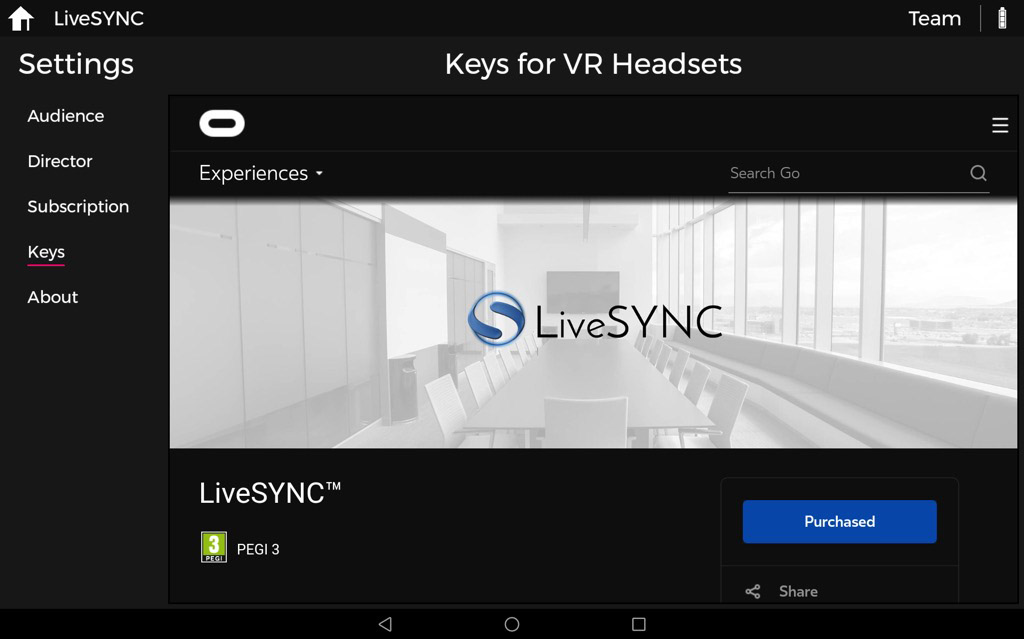
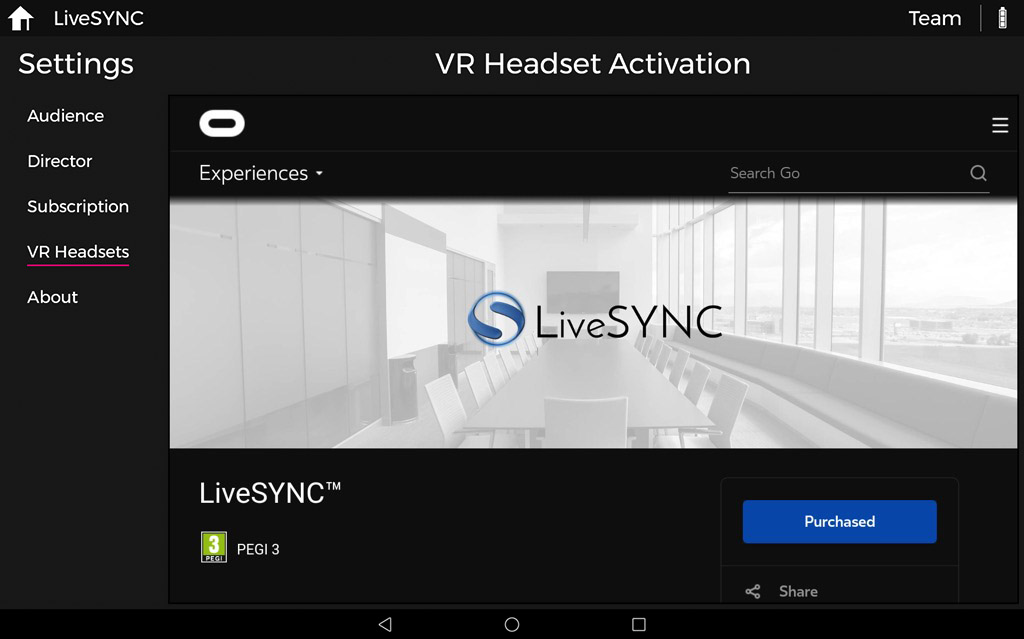
Updated some screenshots and fixed all compile errors

diff --git a/docs/user_guide/hotspots.md b/docs/user_guide/hotspots.md
@@ -1,6 +1,6 @@
 ### Adding Tags
 
-[Adding Tags](..//user_guide/presenting.md#adding-tags)
+[Adding Tags](../user_guide/presenting.md#adding-tags)
 
 ### Marking with tags
 
@@ -29,7 +29,7 @@ In LiveSYNC it is possible to add own tags. Make sure the icons are in **.png** 
  
 On the *Editor* tab once you add a hotspot you're able to see properties window on right side. From properties window, you can choose the type of hotspot by tapping on the drop-down arrow under *Type*. Hotspot type can be **Note (default)**, **Action**, **Live Hotspot** or **Calibration Point**. It is also possible to adjust and customize hotspot size and visibility for the same window. 
 
-![Hotspot properties](../img/hotspotProperties.jpg)
+![Hotspot properties](img/hotspotProperties.jpg)
 
 ## Hotspot types
 
@@ -37,32 +37,32 @@ On the *Editor* tab once you add a hotspot you're able to see properties window 
 
 Note is default hotspot action type. With Note type, you have an option to add a title and long description text to your hotspot icons and add multiple attachments by pressing the + Add button. 
 
-![HotspotType Note](../img/hotspotTypeNote.jpg)
+![HotspotType Note](img/hotspotTypeNote.jpg)
 
 !!! note
-    Make sure you tap **Save** every time you make a change. After saving the project choose preview ![Preview Icon](../img/previewIcon.png).  
+    Make sure you tap **Save** every time you make a change. After saving the project choose preview ![Preview Icon](img/previewIcon.png).  
 
 ### Action
 
 With *Action* it is possible to open/redirect to other contents by tapping on the hotspot. Select hotspot -> choose Action from Type -> Add action -> choose the content you want to show when that hotspot is tapped from auto popup project window and you're all set.  
 
-![HotspotType Action](../img/hotspotTypeAction.jpg)
+![HotspotType Action](img/hotspotTypeAction.jpg)
 
-![HotspotType Action](../img/hotspotTypeAction2.jpg)
+![HotspotType Action](img/hotspotTypeAction2.jpg)
 
-**Save** the changes, tap preview ![Preview Icon](../img/previewIcon.png) to test the action you defined.  
+**Save** the changes, tap preview ![Preview Icon](img/previewIcon.png) to test the action you defined.  
 
 ### Live Hotspot
 
 *Live Hotspot* is a feature to fetch hotspot icons from web server without copying them to the device. Note that hotspots need to be provided in JSON format.  
 
-![HotspotType Live Hotspot](../img/LiveHotspot.jpg)
+![HotspotType Live Hotspot](img/LiveHotspot.jpg)
 
 ### Calibration Point
 
 *Calibration point* is used for camera normalization. Normalization converts a camera path's coordinates to another coordinate space with given reference points. Click [here](..//user_guide/workflows.md#camera-path-normalization) to read more about camera path normalization. 
 
-![HotspotType Calibration](../img/hotspotTypeCalibration.jpg)
+![HotspotType Calibration](img/hotspotTypeCalibration.jpg)
 
 ## Hotspot properties
 
@@ -74,7 +74,7 @@ With *Action* it is possible to open/redirect to other contents by tapping on th
 
 **Pauses playback:** (for video file) check the box if you want the video to pause when the hotspot is tapped and a predefined action is executed (for example opening a new content).  
 
-![HotspotType Property](../img/hotspotProperty.jpg)
+![HotspotType Property](img/hotspotProperty.jpg)
 
 ## Tags resolution
  
@@ -86,4 +86,4 @@ With *Action* it is possible to open/redirect to other contents by tapping on th
                                                                                                                           
  [comment]: <> (add link to downloadable hotspots)
 
-  ![Enterprise feature](../img/enterpriseFooter.png)  
+![Enterprise feature](../img/enterprise_footer.png)

diff --git a/docs/user_guide/starter_kit.md b/docs/user_guide/starter_kit.md
@@ -1,6 +1,6 @@
 # 360° VIDEO STARTER KIT
 
-![360° VIDEO Starter Kit](../img/kit_items.png)
+![360° VIDEO Starter Kit](img/kit_items.png)
 
 ** Starter Kit includes:  **
 
@@ -53,11 +53,11 @@ The accompanying Ricoh Theta mobile app allows **remote operation** and hence hi
 
 (1) Turn the camera on. 
 
-![Recho power button](../img/turnon.png)
+![Recho power button](img/turnon.png)
 
 (2) Press the wireless button to turn the WiFi on.
 
-![Recho wireless indictor](../img/wireless.png)
+![Recho wireless indictor](img/wireless.png)
 
 !!! note
     The WiFi indictor flashes
@@ -66,13 +66,13 @@ The accompanying Ricoh Theta mobile app allows **remote operation** and hence hi
 
 (4) Select the SSID displaying the camera’s serial number, and enter the password.
 
-![Recho serial](../img/serial.png)
+![Recho serial](img/serial.png)
 
 *The serial number is printed at the bottom of the camera. The SSID is “THETA + [Serial number indicated by (B)] + .OSC” (for example, “THETAYL00001017.OSC”). The password is the number indicated by (A) (in this case “00001017”)*
 
 (5) Open the Ricoh Theta app on the tablet to capture & view 360° photos and videos or to access advanced camera functions.
 
-![Recho serial](../img/thetaApp.png)
+![Recho serial](img/thetaApp.png)
 
 
 ### Camera WiFi indicator
@@ -93,7 +93,7 @@ The accompanying Ricoh Theta mobile app allows **remote operation** and hence hi
 
 3. Keep the camera steady and press the big round capture button in the front.
 
-![Capture Button](../img/captureButton.jpg)
+![Capture Button](img/captureButton.jpg)
 
 ### Remote operation mode (with the tablet)
 
@@ -112,8 +112,8 @@ Both the tablet and the camera contain **internal memory only** (tablet: 128GB, 
 1. Turn the camera on and connect the tablet to the camera via WiFi. Start the Ricoh Theta app. The shooting screen is displayed.
 2. Tap [x] in the upper left-hand corner of the screen. A timeline of already transferred images is displayed and [Device images] is selected in the bottom bar.
 3. Select [Cam images] from the bottom bar. A list of images saved in the internal memory of the camera is displayed.
-4. Tap ![Image](../img/i026.png) from top right corner. The selection screen appears.
-5. Select the images to be transferred by tapping them. Multiple images can be selected (a check mark appears for selected images). Tap ![Select all](../img/i005.png)  (Select All button) to select all images. Tap ![Cancel button](../img/i006.png)  (Cancel button) to cancel all selections.
+4. Tap ![Image](img/i026.png) from top right corner. The selection screen appears.
+5. Select the images to be transferred by tapping them. Multiple images can be selected (a check mark appears for selected images). Tap ![Select all](img/i005.png)  (Select All button) to select all images. Tap ![Cancel button](img/i006.png)  (Cancel button) to cancel all selections.
 6. Tap [Transfer]. The transfer will start and progress is displayed on the screen. From the popup notification choose **"Transfer with slant top/bottom correction"** .To cancel the transfer, tap [x] and then tap [Cancel transfer]. Tap [Device images] to view transferred content.
 
 !!! caution
@@ -134,7 +134,7 @@ Both the tablet and the camera contain **internal memory only** (tablet: 128GB, 
 
 (1) Start the Photos app from the application menu.
 
-![Photos App](../img/photosApp.png)
+![Photos App](img/photosApp.png)
 
 (2) Tap [Camera Roll], and then tap [Select] from top right corner.
 

diff --git a/docs/user_guide/editor.md b/docs/user_guide/editor.md
@@ -9,20 +9,20 @@ The *Editor* is a tab in the controller device, which provides persistence for t
 
 (1) Navigate to the *Editor View*
 
-![Enterprise feature](../img/editorTab.jpg)
+![Enterprise feature](img/editorTab.jpg)
 
 (2) Tap [New] and select <*Create New Project>* to create a project or [Open] to load an existing project.
 
-![Enterprise feature](../img/createProject.jpg)
+![Enterprise feature](img/createProject.jpg)
 
-![New Project](../img/newProject.jpg)
+![New Project](img/newProject.jpg)
 
 !!! tip
     Remember to tap [Save] to keep changes.
     
 (3) Drag a photo/video to presentation area to start adding annotations to the project. 
 
-![Adding content](../img/dragContent.jpg)
+![Adding content](img/dragContent.jpg)
 
  
 ## Adding/editing/removing annotations
@@ -36,11 +36,11 @@ Navigate to *Editor view* and create/open a project to add and edit annotations.
 !!! tip
     You can later long press on the added tag and move around to adjust the position. Properties list to the newly added hotspot will be shown automatically on the right side of the screen.  
 
-![Tag Settings](../img/addNewTag.jpg)
+![Tag Settings](img/addNewTag.jpg)
 
  (2) Use Note type, and edit text, size, visibility, tag size, etc.  
  
- ![Tag Settings](../img/editTag.jpg)
+ ![Tag Settings](img/editTag.jpg)
  
  From the settings, you can choose the type of Tag, add title and description, you can even add attachments and adjust the size of tag using the slider indicated as "Hotspot size".
  
@@ -49,7 +49,7 @@ Navigate to *Editor view* and create/open a project to add and edit annotations.
  
  (3) Tap [Delete] from properties list to remove a hotspot
 
-![Delete Tag](../img/deleteTag.jpg)
+![Delete Tag](img/deleteTag.jpg)
 
 If you wish to delete the added tag, select the tag by tapping it and tap "Delete" button from the properties window seen on the right side. 
 
@@ -62,7 +62,7 @@ If you wish to delete the added tag, select the tag by tapping it and tap "Delet
 !!! tip
     Use 32-bit PNG images (with alpha channel) for transparent icon background. 
  
- Detailed tutorial on tags and hotspots is discussed on [chapter 9](..//user_guide/hotspots.md). 
+ Detailed tutorial on tags and hotspots is discussed on [chapter 9](../user_guide/hotspots.md). 
 
 
 ## Exporting presentation content
@@ -83,4 +83,4 @@ from top menu and Document details dialog view will appear, give document title 
 
 [comment]: <> (What are the files you need to copy when transfering saved projects to another iPad)
 
-![Enterprise feature](../img/enterpriseFooter.png)
+![Enterprise feature](../img/enterprise_footer.png)

diff --git a/docs/user_guide/customizing.md b/docs/user_guide/customizing.md
@@ -55,17 +55,17 @@ The settings file will give you the chance to tailor LiveSYNC the way it suits y
 
  ![Enterprise feature](../img/enterprise_feature.png)
  
- Custom branding is one extra benefit you can get by using the enterprise version of LiveSYNC. Using custom branding you have the possibility to change the waiting room's lounge background also known as [a lobby](..//user_guide/workspace.md#lobby) on the audience's view, put own logo in the screen and use own logo on exported reports. 
+ Custom branding is one extra benefit you can get by using the enterprise version of LiveSYNC. Using custom branding you have the possibility to change the waiting room's lounge background also known as [a lobby](../user_guide/workspace.md#lobby) on the audience's view, put own logo in the screen and use own logo on exported reports. 
  
  In order to customize LiveSYNC, you need three image files: **lounge_background.jpg** a 360-degree waiting room background, **lounge_logo.png** logo that can be seen in the screen, and **report_logo.png** logo for the report. The three files need to be in a folder by the name *CustomBranding*. 
  
-  ![Custom branding](../img/customBranding.png)
+  ![Custom branding](img/customBranding.png)
   
-  ![Custom branding](../img/customBranding1.png)
+  ![Custom branding](img/customBranding1.png)
  
- Copy the *CustomBranding* folder to both the director and **all audience devices** LiveSYNC folder. To get a better idea where to copy the folder, take a look at our tutorial on [Where Should My Files Go?](..//user_guide/asset_management.md#where-should-my-files-go)
+ Copy the *CustomBranding* folder to both the director and **all audience devices** LiveSYNC folder. To get a better idea where to copy the folder, take a look at our tutorial on [Where Should My Files Go?](../user_guide/asset_management.md#where-should-my-files-go)
  
 !!! note
     The changed lobby background is seen in all the audience devices, not on the director iPad.  
     
- ![Enterprise feature](../img/enterpriseFooter.png)  
+![Enterprise feature](../img/enterprise_footer.png)

diff --git a/docs/user_guide/installing.md b/docs/user_guide/installing.md
@@ -51,7 +51,7 @@ Installing the beta version is only slightly different than installing the store
 !!! example
     Anthony has purchased a set of 360 Video [Starter kits](starter_kit.md) for his construction company. They are building in several cities. Anthony wants to keep himself up-to-date without spending his days traveling. Twice per week his site managers take a set of 360-degree photos and annotate the progress and next tasks. They email a PDF report to Anthony straight from LiveSYNC. They use the beta version because it has some new annotation features they wish to test.
 
-![Enterprise feature](../img/enterpriseFooter.png)
+![Enterprise feature](../img/enterprise_footer.png)
 
 ### Roles
 
@@ -283,7 +283,7 @@ If you have already installed LiveSYNC for your Android phone/tablet, we recomme
  
     ![Oculus Install Wizard](img/install_oculus_wizard_step_0.jpg)
 
-2. The *Settings* screen opens. Select *Keys* page from the left side menu. The wizard will load the introduction page. Click the *Redeem Code* page link to begin.
+2. The *Settings* screen opens. Select *VR Headsets* page from the left side menu. The wizard will load the introduction page. Click the *Redeem Code* page link to begin.
 
     ![Oculus Install Wizard](img/install_oculus_wizard_step_1.jpg)
 
@@ -607,7 +607,7 @@ To avoid confusion, locked features are usually hidden from the app.
 
 Enterprise features are not included in the standard license that you can purchase from the app stores. They are always enabled with a license code or a license file.
 
-![Enterprise feature](../img/enterpriseFooter.png)
+![Enterprise feature](../img/enterprise_footer.png)
 
 ### 360 Video Starter Kit
 

diff --git a/docs/articles/video_encoding.md b/docs/articles/video_encoding.md
@@ -6,26 +6,27 @@ On this article, we will introduce you to an open source video transcoder tool c
  Please follow the following steps to encode your video files. 
  
 1. Go to  [https://handbrake.fr/](https://handbrake.fr/) and press Download HandBrake
-![Handbrake](../img/handbrakeHomePage.jpg)
+![Handbrake](img/handbrakeHomePage.jpg)
 2. Install and launch the downloaded app
 3. Got to File -> Open Source -> choose the video you want to encode
-or tap ![Handbrake](../img/openSource.jpg) button to choose the video. 
+or tap ![Handbrake](img/openSource.jpg) button to choose the video. 
 4. From the tabs select **Dimensions**
-![Dimensions Tab](../img/dimensionsTab.jpg)
+![Dimensions Tab](img/dimensionsTab.jpg)
     - Select resolution from Storage Size (Make sure the values on Storage Size are the same as Display Size)
     - Anamorpic: Always keep it off 
     - Cropping: Make sure all values are 0 (choose custom and manually edit the values to 0 if needed)
     
-    ![Settings on Dimensions Tab](../img/settings.png)
+    ![Settings on Dimensions Tab](img/settings.png)
     
 5. From the tabs select Video
 
-![Video Tab](../img/videoTab.jpg)
+![Video Tab](img/videoTab.jpg)
 
    - Video Encoder: H.264 (x264) is what supported by most iPads
    - Framerate (FPS): 30
    
-    ![Settings on Video Tab](../img/videoSettings.jpg)  
+    ![Settings on Video Tab](img/videoSettings.jpg)
+      
 6. Press **Start** to start encoding the video. 
 
-![Start encoding](../img/startButton.jpg)
+![Start encoding](img/startButton.jpg)

diff --git a/docs/user_guide/introduction.md b/docs/user_guide/introduction.md
@@ -149,7 +149,7 @@ All these are built-in features in LiveSYNC. Drag & drop icons from clipart sets
 
 The enterprise version of the LiveSYNC app goes much further. It has been developed in close co-operation with industrial clients. You can use a built-in editor to create or edit a project. Import media content from the camera roll. Add interactive hotspots. These can even fetch data from the network in real-time. Import 2D and 3D maps with camera paths. A really useful feature is to be able to export all the notes you've made as screenshots. They are placed into a visual PDF report, which you can send to your colleagues right away. As an example, take a quick tour on your construction site with a 360-degree camera. Add new work instructions. Export to PDF and mail away. All in 15 minutes. That's what we call *instant digitalization*.
 
-![Enterprise feature](../img/enterpriseFooter.png)
+![Enterprise feature](../img/enterprise_footer.png)
 
 Since its initial release, LiveSYNC has come a long way. We are very excited about the features that are being developed right now. We feel that LiveSYNC is just spreading its wings. After years of working with 360-degree media, we get still excited about it. It is amazing what is possible when an image or a video covers the full 360-degree view.
 

diff --git a/docs/tutorials/oculus_go_preparing.md b/docs/tutorials/oculus_go_preparing.md
@@ -41,7 +41,7 @@ To view a presentation, the headset must join the same channel that the control 
 
     ![Cover](../user_guide/img/config_oculus_audience_step_7.png)
 
-8. The channel configuration is almost complete. This setup page reminds you that the presentation's assets must be copied to the device. This task will be covered in detail in the next chapter [Managing assets](asset_management.md). You can copy the assets in place now, but you can also do that after completing the setup phase. Click *Next* to proceed.
+8. The channel configuration is almost complete. This setup page reminds you that the presentation's assets must be copied to the device. This task will be covered in detail in the next chapter [Managing assets](../user_guide/asset_management.md). You can copy the assets in place now, but you can also do that after completing the setup phase. Click *Next* to proceed.
 
     ![Cover](../user_guide/img/config_oculus_audience_step_8.png)
 

diff --git a/docs/user_guide/asset_management.md b/docs/user_guide/asset_management.md
@@ -28,7 +28,7 @@ In short, a **presentation's assets are all the files that you will need in your
 - 3D map models
 - Camera path files
 
-![Enterprise feature](../img/enterpriseFooter.png)
+![Enterprise feature](../img/enterprise_footer.png)
 
 You can combine different kinds of assets in your presentation. They can be partially the same as other presentations and partially different.
 
